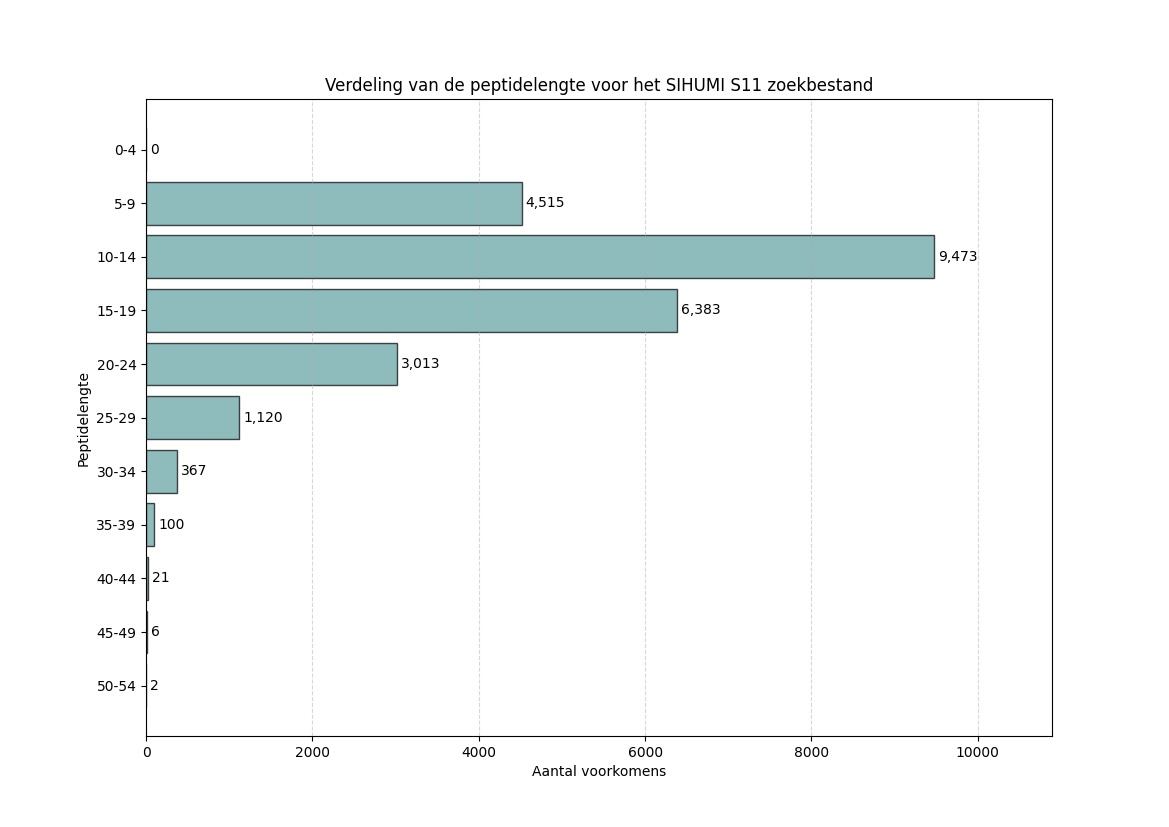
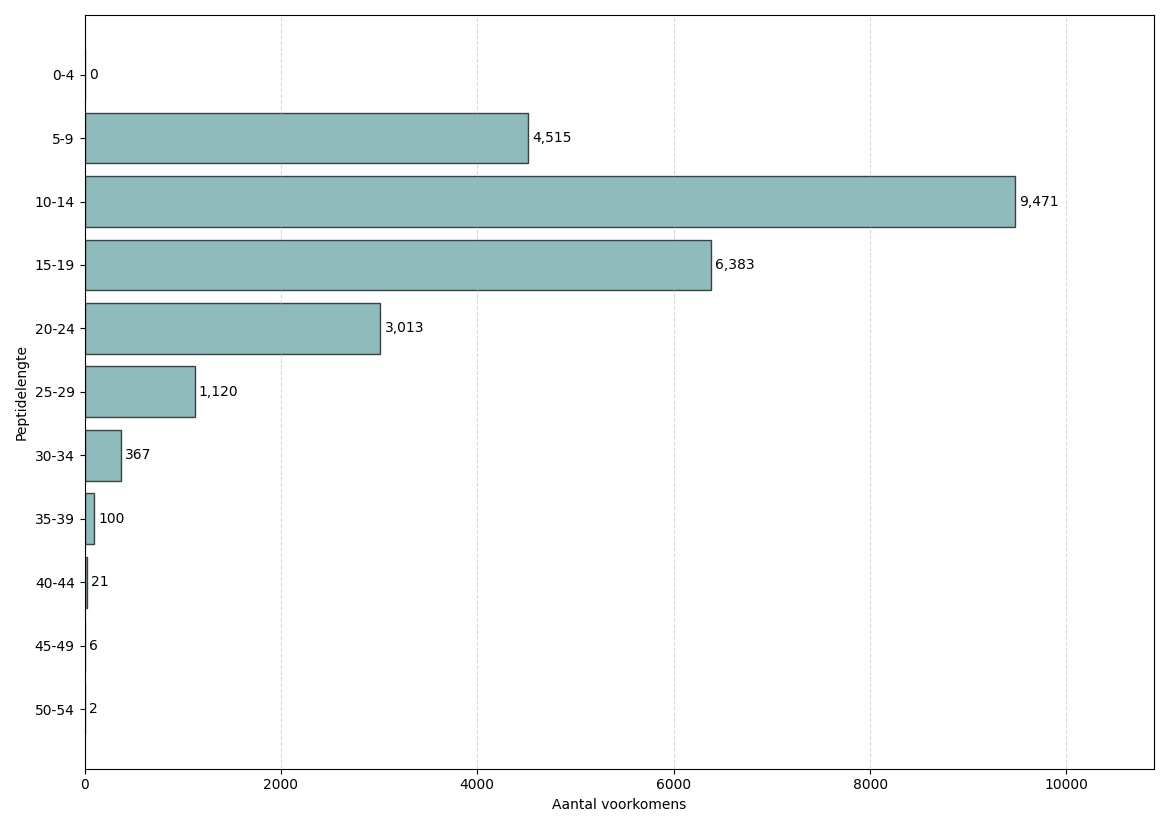
update appendix graphs

diff --git a/src/appendix_A_searchfile_stats.tex b/src/appendix_A_searchfile_stats.tex
@@ -1,72 +1,132 @@
-\chapter{Statistieken Zoekbestanden}\label{ch:appendix-statistieken-zoekbestanden}
-Deze appendix bevat extra grafieken die niet relevant waren voor de tekst, maar toch extra inzicht kunnen geven in de consistentie van de zoekbestanden.
+\chapter{Statistieken Peptidebestanden}\label{ch:appendix-statistieken-peptidebestanden}
 Deze grafieken visualiseren de verdeling van aminozuren en de lengte van de peptides.
 
 \section{Human-Prot}\label{sec:human-prot-stats}
 \begin{figure}[H]
     \centering
-    \subfloat[Distributie van de aminozuren in het Human-Prot zoekbestand.]{\includegraphics[width=0.485\linewidth]{humanprot_search_amino_acids}}
-    \hfill
-    \subfloat[Lengtedistributie van de peptiden in het Human-Prot zoekbestand.]{\includegraphics[width=0.485\linewidth]{humanprot_search_lengths}}
-    \caption{Extra statistieken over het Human-Prot zoekbestand.}\label{fig:humanprot_search_other_stats}
+    \includegraphics[width=0.90\linewidth]{humanprot_search_amino_acids}
+    \caption{Distributie van de aminozuren in het Human-Prot peptidebestand.}
+    \label{fig:humanprot_search_amino_acids}
+\end{figure}
+
+\begin{figure}[H]
+    \centering
+    \includegraphics[width=0.90\linewidth]{humanprot_search_lengths}
+    \caption{Lengtedistributie van de peptiden in het Human-Prot peptidebestand.}
+    \label{fig:humanprot_search_distr}
 \end{figure}
 
 \section{Swiss-Prot}\label{sec:swiss-prot-stats}
 \begin{figure}[H]
     \centering
-    \subfloat[Distributie van de aminozuren in het Swiss-Prot zoekbestand zonder \textit{missed cleavage}.]{\includegraphics[width=0.485\linewidth]{swissprot_searchfile_no_missed_cleavage_amino_acids}}
-    \hfill
-    \subfloat[Lengtedistributie van de peptiden in het Swiss-Prot zoekbestand zonder \textit{missed cleavage}.]{\includegraphics[width=0.485\linewidth]{swissprot_searchfile_no_missed_cleavage_lengths}}
-    \caption{Extra statistieken over het Swiss-Prot zoekbestand zonder \textit{missed cleavage}.}\label{fig:swissprot_search_no_missed_cleavage_other_stats}
+    \includegraphics[width=0.90\linewidth]{swissprot_searchfile_no_missed_cleavage_amino_acids}
+    \caption{Distributie van de aminozuren in het Swiss-Prot peptidebestand zonder \textit{missed cleavage.}}
+    \label{fig:swissprot_search_no_missed_cleavage_amino_acids}
 \end{figure}
+
 \begin{figure}[H]
     \centering
-    \subfloat[Distributie van de aminozuren in het Swiss-Prot zoekbestand met \textit{missed cleavage}.]{\includegraphics[width=0.485\linewidth]{swissprot_searchfile_missed_cleavage_amino_acids}}
-    \hfill
-    \subfloat[Lengtedistributie van de peptiden in het Swiss-Prot zoekbestand met \textit{missed cleavage}.]{\includegraphics[width=0.485\linewidth]{swissprot_searchfile_missed_cleavage_lengths}}
-    \caption{Extra statistieken over het Swiss-Prot zoekbestand met \textit{missed cleavage}.}\label{fig:swissprot_search_missed_cleavage_other_stats}
+    \includegraphics[width=0.90\linewidth]{swissprot_searchfile_no_missed_cleavage_lengths}
+    \caption{Lengtedistributie van de peptiden in het Swiss-Prot peptidebestand zonder \textit{missed cleavage.}}
+    \label{fig:swissprot_search_no_missed_cleavage_distr}
+\end{figure}
+
+\begin{figure}[H]
+    \centering
+    \includegraphics[width=0.90\linewidth]{swissprot_searchfile_missed_cleavage_amino_acids}
+    \caption{Distributie van de aminozuren in het Swiss-Prot peptidebestand met \textit{missed cleavage.}}
+    \label{fig:swissprot_search_missed_cleavage_amino_acids}
+\end{figure}
+
+\begin{figure}[H]
+    \centering
+    \includegraphics[width=0.90\linewidth]{swissprot_searchfile_missed_cleavage_lengths}
+    \caption{Lengtedistributie van de peptiden in het Swiss-Prot peptidebestand met \textit{missed cleavage.}}
+    \label{fig:swissprot_search_missed_cleavage_distr}
 \end{figure}
 
 \section{SIHUMI}\label{sec:sihumi-stats}
+
 \begin{figure}[H]
     \centering
-    \subfloat[Distributie van de aminozuren in het SIHUMI S03 zoekbestand.]{\includegraphics[width=0.485\linewidth]{sihumi_03_amino_acids}}
-    \hfill
-    \subfloat[Lengtedistributie van de peptiden in het in het SIHUMI S03 zoekbestand.]{\includegraphics[width=0.485\linewidth]{sihumi_03_length}}
-    \caption{Extra statistieken over het SIHUMI S03 zoekbestand.}\label{fig:sihumi_03_other_stats}
+    \includegraphics[width=0.90\linewidth]{sihumi_03_amino_acids}
+    \caption{Distributie van de aminozuren in het SIHUMI 03 peptidebestand.}
+    \label{fig:sihumi_03_amino_acids}
 \end{figure}
+
 \begin{figure}[H]
     \centering
-    \subfloat[Distributie van de aminozuren in het SIHUMI S05 zoekbestand.]{\includegraphics[width=0.485\linewidth]{sihumi_05_amino_acids}}
-    \hfill
-    \subfloat[Lengtedistributie van de peptiden in het in het SIHUMI S05 zoekbestand.]{\includegraphics[width=0.485\linewidth]{sihumi_05_length}}
-    \caption{Extra statistieken over het SIHUMI S05 zoekbestand.}\label{fig:sihumi_05_other_stats}
+    \includegraphics[width=0.90\linewidth]{sihumi_03_length}
+    \caption{Lengtedistributie van de peptiden in het in het SIHUMI 03 peptidebestand.}
+    \label{fig:sihumi_03_distr}
 \end{figure}
+
 \begin{figure}[H]
     \centering
-    \subfloat[Distributie van de aminozuren in het SIHUMI S07 zoekbestand.]{\includegraphics[width=0.485\linewidth]{sihumi_07_amino_acids}}
-    \hfill
-    \subfloat[Lengtedistributie van de peptiden in het in het SIHUMI S07 zoekbestand.]{\includegraphics[width=0.485\linewidth]{sihumi_07_length}}
-    \caption{Extra statistieken over het SIHUMI S07 zoekbestand.}\label{fig:sihumi_07_other_stats}
+    \includegraphics[width=0.90\linewidth]{sihumi_05_amino_acids}
+    \caption{Distributie van de aminozuren in het SIHUMI 05 peptidebestand.}
+    \label{fig:sihumi_05_amino_acids}
 \end{figure}
+
 \begin{figure}[H]
     \centering
-    \subfloat[Distributie van de aminozuren in het SIHUMI S08 zoekbestand.]{\includegraphics[width=0.485\linewidth]{sihumi_08_amino_acids}}
-    \hfill
-    \subfloat[Lengtedistributie van de peptiden in het in het SIHUMI S08 zoekbestand.]{\includegraphics[width=0.485\linewidth]{sihumi_08_length}}
-    \caption{Extra statistieken over het SIHUMI S08 zoekbestand.}\label{fig:sihumi_08_other_stats}
+    \includegraphics[width=0.90\linewidth]{sihumi_05_length}
+    \caption{Lengtedistributie van de peptiden in het in het SIHUMI 05 peptidebestand.}
+    \label{fig:sihumi_05_distr}
 \end{figure}
+
 \begin{figure}[H]
     \centering
-    \subfloat[Distributie van de aminozuren in het SIHUMI S11 zoekbestand.]{\includegraphics[width=0.485\linewidth]{sihumi_11_amino_acids}}
-    \hfill
-    \subfloat[Lengtedistributie van de peptiden in het in het SIHUMI S11 zoekbestand.]{\includegraphics[width=0.485\linewidth]{sihumi_11_length}}
-    \caption{Extra statistieken over het SIHUMI S11 zoekbestand.}\label{fig:sihumi_11_other_stats}
+    \includegraphics[width=0.90\linewidth]{sihumi_07_amino_acids}
+    \caption{Distributie van de aminozuren in het SIHUMI 07 peptidebestand.}
+    \label{fig:sihumi_07_amino_acids}
 \end{figure}
+
 \begin{figure}[H]
     \centering
-    \subfloat[Distributie van de aminozuren in het SIHUMI S14 zoekbestand.]{\includegraphics[width=0.485\linewidth]{sihumi_14_amino_acids}}
-    \hfill
-    \subfloat[Lengtedistributie van de peptiden in het in het SIHUMI S14 zoekbestand.]{\includegraphics[width=0.485\linewidth]{sihumi_14_length}}
-    \caption{Extra statistieken over het SIHUMI S14 zoekbestand.}\label{fig:sihumi_14_other_stats}
+    \includegraphics[width=0.90\linewidth]{sihumi_07_length}
+    \caption{Lengtedistributie van de peptiden in het in het SIHUMI 07 peptidebestand.}
+    \label{fig:sihumi_07_distr}
+\end{figure}
+
+\begin{figure}[H]
+    \centering
+    \includegraphics[width=0.90\linewidth]{sihumi_08_amino_acids}
+    \caption{Distributie van de aminozuren in het SIHUMI 08 peptidebestand.}
+    \label{fig:sihumi_08_amino_acids}
+\end{figure}
+
+\begin{figure}[H]
+    \centering
+    \includegraphics[width=0.90\linewidth]{sihumi_08_length}
+    \caption{Lengtedistributie van de peptiden in het in het SIHUMI 08 peptidebestand.}
+    \label{fig:sihumi_08_distr}
+\end{figure}
+
+\begin{figure}[H]
+    \centering
+    \includegraphics[width=0.90\linewidth]{sihumi_11_amino_acids}
+    \caption{Distributie van de aminozuren in het SIHUMI 11 peptidebestand.}
+    \label{fig:sihumi_11_amino_acids}
+\end{figure}
+
+\begin{figure}[H]
+    \centering
+    \includegraphics[width=0.90\linewidth]{sihumi_11_length}
+    \caption{Lengtedistributie van de peptiden in het in het SIHUMI 11 peptidebestand.}
+    \label{fig:sihumi_11_distr}
+\end{figure}
+
+\begin{figure}[H]
+    \centering
+    \includegraphics[width=0.90\linewidth]{sihumi_14_amino_acids}
+    \caption{Distributie van de aminozuren in het SIHUMI 14 peptidebestand.}
+    \label{fig:sihumi_14_amino_acids}
+\end{figure}
+
+\begin{figure}[H]
+    \centering
+    \includegraphics[width=0.90\linewidth]{sihumi_14_length}
+    \caption{Lengtedistributie van de peptiden in het in het SIHUMI 14 peptidebestand.}
+    \label{fig:sihumi_14_distr}
 \end{figure}

diff --git a/src/inleiding.tex b/src/inleiding.tex
@@ -306,14 +306,14 @@ Deze peptidebestanden worden in combinatie met de Swiss-Prot proteïnedatabank g
         \begin{tabular}{ l l l l l l l }
             Metriek                    & SIHUMI 03  & SIHUMI 05  & SIHUMI 05  & SIHUMI 08  & SIHUMI 11  & SIHUMI 14  \\
             \hline\hline
-            Totaal aantal sequenties   & 25 000     & 25 000     & 24 424     & 25 000     & 25 000     & 25 000     \\
-            Totale lengte              & 420 544 aa & 420 423 aa & 373 633 aa & 316 114 aa & 366 922 aa & 430 674 aa \\
+            Totaal aantal sequenties   & 25 000     & 25 000     & 24 424     & 25 000     & 24 998     & 25 000     \\
+            Totale lengte              & 420 544 aa & 420 423 aa & 373 633 aa & 316 114 aa & 366 894 aa & 430 674 aa \\
             Minimale peptidelengte     & 6 aa       & 6 aa       & 6 aa       & 6 aa       & 6 aa       & 6 aa       \\
             Maximale peptidelengte     & 50 aa      & 50 aa      & 47 aa      & 43 aa      & 50 aa      & 50 aa      \\
             Gemiddelde peptidelengte   & 16.82 aa   & 16.82 aa   & 15.30 aa   & 12.64 aa   & 14.68 aa   & 17.23 aa   \\
             Mediaan peptidelengte      & 15 aa      & 16 aa      & 14 aa      & 12 aa      & 14 aa      & 16 aa      \\
             Aantal vindbare peptiden   & 2570       & 2698       & 3652       & 4135       & 3792       & 2761       \\
-            Aantal tryptische peptiden & 17 263     & 162        & 152        & 207        & 155        & 242        \\
+            Aantal tryptische peptiden & 17 263     & 162        & 152        & 207        & 153        & 242        \\
             \hline
         \end{tabular}}
     \caption{Eigenschappen van de SIHUMIx peptidebestanden. Elke kolom stelt een staal voor met als bestandsnaam \texttt{S<XX>.txt}. Deze stalen kunnen teruggevonden worden in onze GitHub repository \protect\footnote{\url{https://github.com/BramDevlaminck/Thesis\_benchmarkdata}} onder de \texttt{SIHUMI}-folder.} % protect is needed to make footnote possible in a caption. This is combined with a minipage to place the footnote directly under the table
@@ -353,3 +353,9 @@ Al deze informatie, en ook over de andere machines gebruik door Unipept, kan ter
     \caption{Hardwarespecificaties van de fysieke server en virtuele machine die gebruikt worden tijdens het testen. Deze virtuele machine draait samen met nog enkele andere VMs op de server.}
     \label{tab:Matt_hardware}
 \end{table}
+
+Naast deze VM hebben we ook toegang tot enkele andere machines indien hier nood toe zou zijn.
+Het is mogelijk in het totaal 768 GiB aan RAM kunnen ter beschikking stellen op een Unipept machine door enkele VMs en Unipept applicaties te verdelen over andere machines.
+De HPC van UGent\footnote{https://docs.hpc.ugent.be/Linux/} biedt nodes aan die tot 940 GiB aan RAM hebben.
+Tot slot heeft de CompOmics\footnote{Computational Omics} onderzoeksgroep aan UGent ook enkele machines staan dit tot 2TiB aan geheugen hebben.
+Deze onderzoeksgroep werkt aan softwaretoepassingen voor het verwerken van proteomica-data, waar het onderzoeksgebied van de metaproteomica onder valt.
